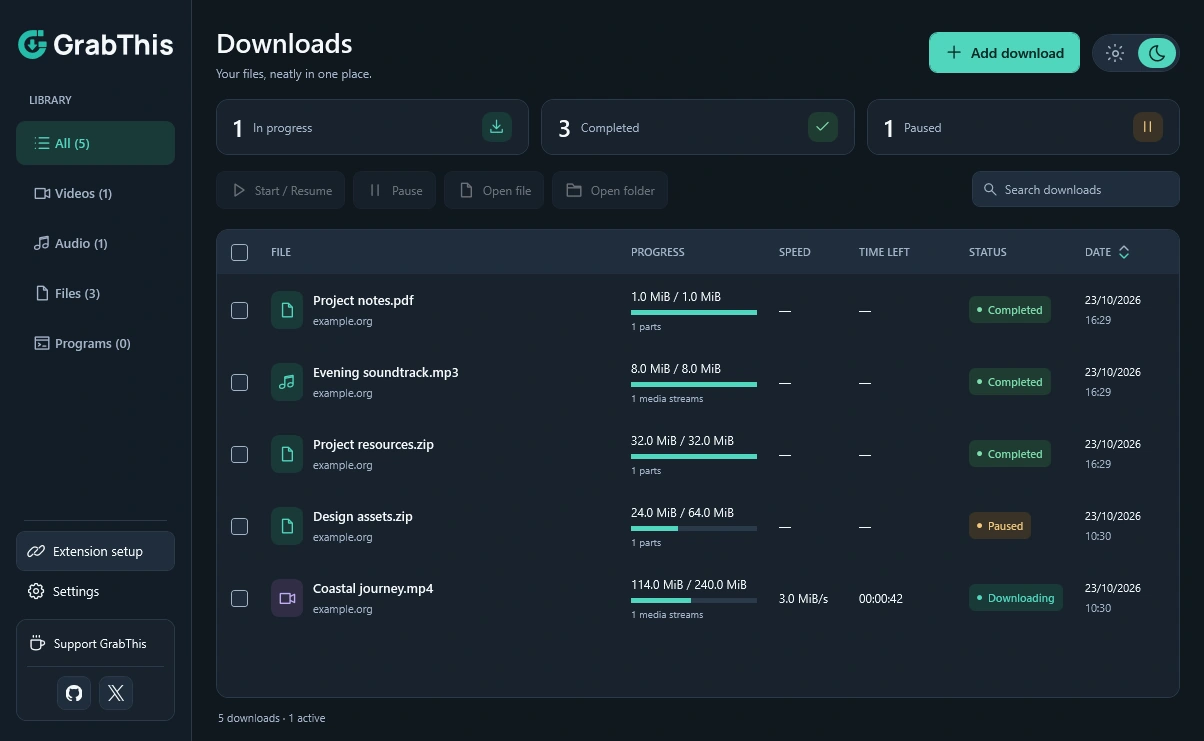
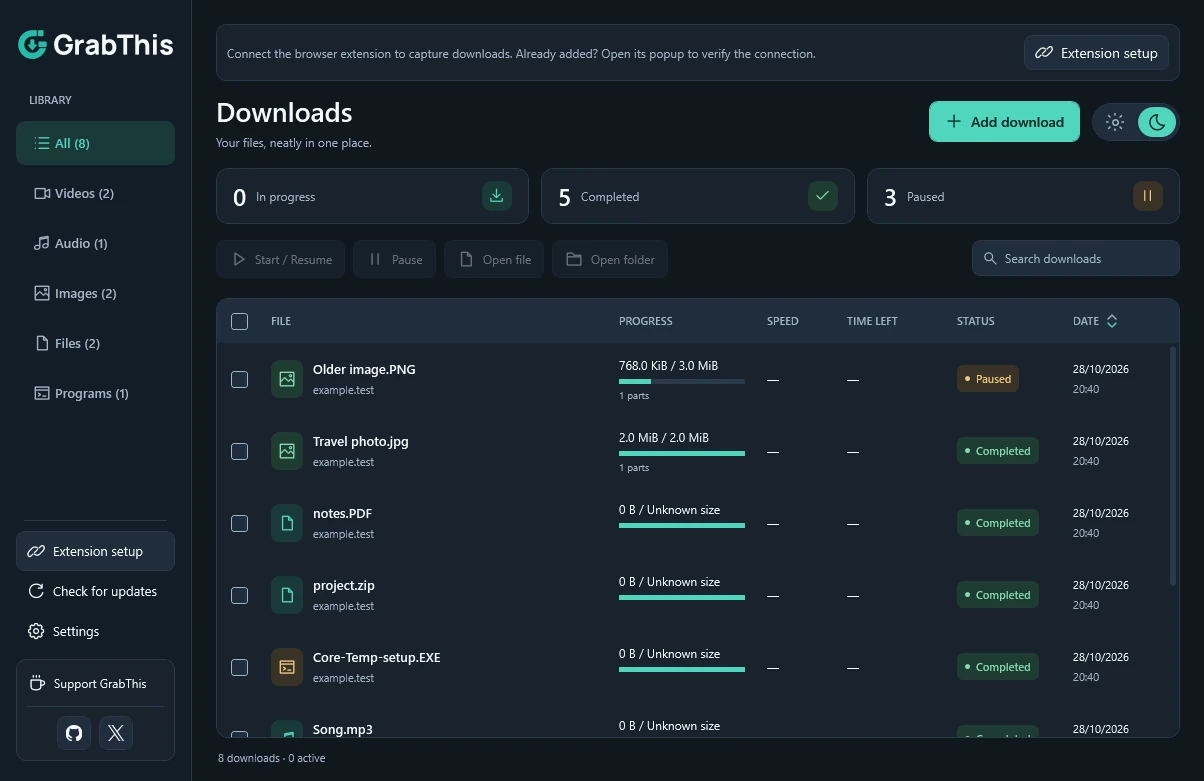
Document 0.1.56 image categories and companion 0.1.28

diff --git a/README.md b/README.md
@@ -10,7 +10,7 @@
     <a href="https://github.com/Godchi872/GrabThis/releases/latest"><img src="https://img.shields.io/github/v/release/Godchi872/GrabThis?label=latest%20release&amp;color=20b8a6" alt="Latest GrabThis release"></a>
     <a href="https://grabthis.vercel.app/"><img src="https://img.shields.io/badge/website-grabthis.vercel.app-243543" alt="GrabThis website"></a>
   </p>
-  <p><a href="https://github.com/Godchi872/GrabThis/releases/download/v0.1.55/GrabThis-0.1.55-Setup.exe"><img src="https://img.shields.io/badge/Download_for_Windows-x64-20b8a6?style=for-the-badge" alt="Download GrabThis for Windows x64"></a></p>
+  <p><a href="https://github.com/Godchi872/GrabThis/releases/download/v0.1.56/GrabThis-0.1.56-Setup.exe"><img src="https://img.shields.io/badge/Download_for_Windows-x64-20b8a6?style=for-the-badge" alt="Download GrabThis for Windows x64"></a></p>
   <p>Free to use · Light &amp; dark · English / Français / العربية</p>
   <p><a href="#screenshots">Screenshots</a> · <a href="#installation">Installation</a> · <a href="docs/BROWSER-SETUP.md">Extension setup</a> · <a href="#help-and-feedback">Help</a></p>
 </div>
@@ -18,14 +18,14 @@
 <picture>
   <source media="(prefers-color-scheme: dark)" srcset=".github/assets/app-dark.webp">
   <source media="(prefers-color-scheme: light)" srcset=".github/assets/app-light.webp">
-  <img src=".github/assets/app-dark.webp" alt="GrabThis library with example downloads in progress, completed and paused" width="1204">
+  <img src=".github/assets/app-dark.webp" alt="GrabThis library with example downloads and image, video, audio, file and program categories" width="1204">
 </picture>
 
 ## The essentials, without the clutter
 
 - ⚡ **Faster downloads** — download file parts in parallel with up to 8 connections on supported servers.
 - 🌐 **Capture browser downloads** — send eligible files straight to GrabThis.
-- 🖼 **Download images** — right-click a web image and confirm its name and folder in GrabThis.
+- 🖼 **Download images** — right-click an image and choose **Download with GrabThis**, then confirm its name and folder.
 - 🎬 **Choose video quality** — use the floating button to pick available MP4 or MP3 options.
 - ⏯ **Pause and resume** — continue supported downloads and control their speed.
 - 🎵 **Convert video to MP3** — turn a local video into audio while keeping the original.
@@ -73,7 +73,7 @@ Formats depend on the source. YouTube focuses on the main video; on other suppor
 
 ## Installation
 
-1. **[Download the Windows installer](https://github.com/Godchi872/GrabThis/releases/download/v0.1.55/GrabThis-0.1.55-Setup.exe)**, open it and approve the Windows prompt.
+1. **[Download the Windows installer](https://github.com/Godchi872/GrabThis/releases/download/v0.1.56/GrabThis-0.1.56-Setup.exe)**, open it and approve the Windows prompt.
 2. **Launch GrabThis** from the Desktop or Start Menu.
 3. **Follow Extension setup** on first launch to connect your browser.
 

diff --git a/RELEASE-NOTES.md b/RELEASE-NOTES.md
@@ -1,11 +1,11 @@
-**[Download for Windows (.exe)](https://github.com/Godchi872/GrabThis/releases/download/v0.1.55/GrabThis-0.1.55-Setup.exe)**
+**[Download for Windows (.exe)](https://github.com/Godchi872/GrabThis/releases/download/v0.1.56/GrabThis-0.1.56-Setup.exe)**
 
-Right-click a web image in Chrome, Edge, Brave, Opera or Firefox and choose **Download image with GrabThis**. Choose its filename and folder, then start the download.
+- Add an **Images** category and picture icons. Existing image downloads are categorized automatically.
+- Include companion **0.1.28** with one direct **Download with GrabThis** right-click action for images and links.
+- Detect images behind transparent overlays, CSS backgrounds, responsive images and images in embedded frames.
 
-After the installed app opens successfully, it automatically removes cached installers for installed and older versions, including earlier update caches. Newer updates awaiting installation are kept.
+After updating, reload the unpacked Chromium extension or close and reopen the browser. Firefox updates are distributed separately through Mozilla Add-ons; the existing signed version remains supported.
 
-Includes Chromium companion **0.1.27**. After updating GrabThis, reload the unpacked extension or close and reopen the browser. Firefox companion **0.1.27** is now available from Mozilla Add-ons and includes the image menu.
+Preferences, download history and offline installation are preserved.
 
-Setup still includes the app runtime and video tools for offline installation. Saved language, preferences and download history are preserved. The Windows installer remains unsigned.
-
-[Third-party licenses and source links](https://github.com/Godchi872/GrabThis/blob/main/docs/THIRD-PARTY.md).
+[Third-party licenses](https://github.com/Godchi872/GrabThis/blob/main/docs/THIRD-PARTY.md).

diff --git a/docs/BROWSER-SETUP.md b/docs/BROWSER-SETUP.md
@@ -89,11 +89,13 @@ The included **extension-firefox** folder is for development testing; use the si
 
 ## Download an image
 
-With GrabThis 0.1.55 and companion 0.1.27, right-click an image in Chrome, Edge, Brave, Opera or Firefox and choose **Download image with GrabThis**. Confirm the filename and destination folder, then start. Cancel closes the prompt without downloading the image.
+With GrabThis 0.1.56 and Chromium companion 0.1.28, right-click an image and choose **Download with GrabThis**. Confirm its filename and folder, then start. The same direct action handles ordinary download links.
 
-After upgrading GrabThis, click Reload on its unpacked extension card, or close and reopen the browser, to load the updated files. Images requiring your browser session may need the browser's **Save image as** option instead. Blob/data images and CSS background images are outside this feature.
+Transparent image overlays, HTTP(S) CSS background images, responsive images and embedded frames are supported. Images are grouped automatically in the app's **Images** category with picture icons.
 
-Firefox companion 0.1.27 is published on Mozilla Add-ons and includes the image menu. Use GrabThis 0.1.55 or newer.
+Reload the unpacked extension after updating GrabThis, or close and reopen the browser. Session-only images may still require the browser's **Save image as** option. Blob/data URLs are not part of this feature.
+
+Firefox companion updates are distributed through Mozilla Add-ons. Version 0.1.27 remains supported while the next store update is prepared separately.
 
 ## Hide the floating button
 

diff --git a/docs/INSTALLATION.md b/docs/INSTALLATION.md
@@ -2,7 +2,7 @@
 
 ## Install on Windows
 
-1. Download **[GrabThis-0.1.54-Setup.exe](https://github.com/Godchi872/GrabThis/releases/download/v0.1.55/GrabThis-0.1.55-Setup.exe)** and open it.
+1. Download **[GrabThis-0.1.54-Setup.exe](https://github.com/Godchi872/GrabThis/releases/download/v0.1.56/GrabThis-0.1.56-Setup.exe)** and open it.
 2. Approve the Windows administrator prompt. Setup installs in **Program Files** and prepares the video tools and browser connection. The video tools and application runtime are included, so installation works without an internet connection. Your selected setup language is used on the first app launch; updates preserve your saved language.
 3. Open **GrabThis** from the Desktop or Start Menu shortcut.
 4. Follow **Extension setup** on first launch. Chrome, Edge and Brave share an illustrated guide; Firefox has its own Add-ons button. Opera and other compatible Chromium browsers can follow the [browser guide](BROWSER-SETUP.md#chromium-browsers).

diff --git a/CHANGELOG.md b/CHANGELOG.md
@@ -1,5 +1,11 @@
 # Changelog
 
+## v0.1.56 — 28 October 2026
+
+- Add Images filtering, counts and picture icons, including existing image files.
+- Keep explicitly captured images categorized correctly after a filename change.
+- Include companion 0.1.28: one direct image/link menu and image selection beneath transparent overlays, in CSS backgrounds, responsive pictures and embedded frames.
+
 ## v0.1.55 — 28 October 2026
 
 - Add **Download image with GrabThis** to the browser companion's image context menu, with filename/folder confirmation before downloading.
